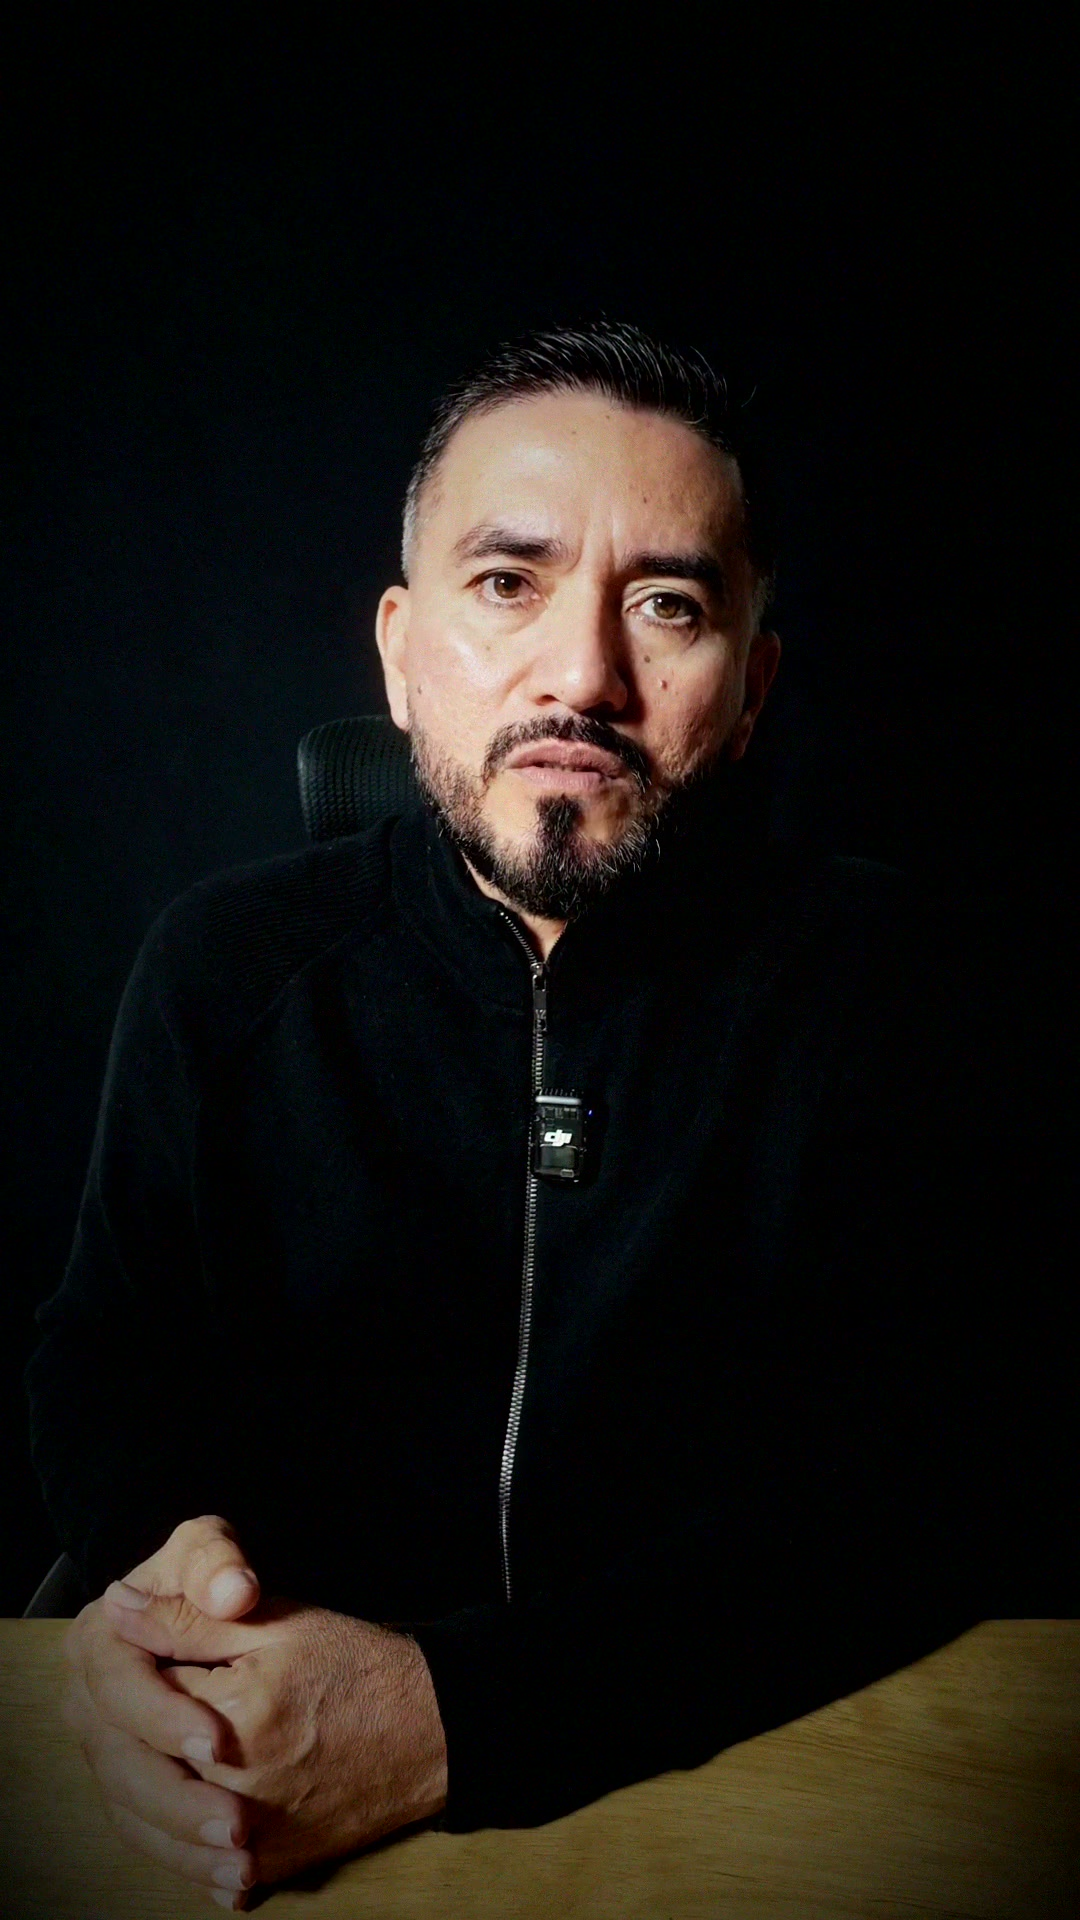
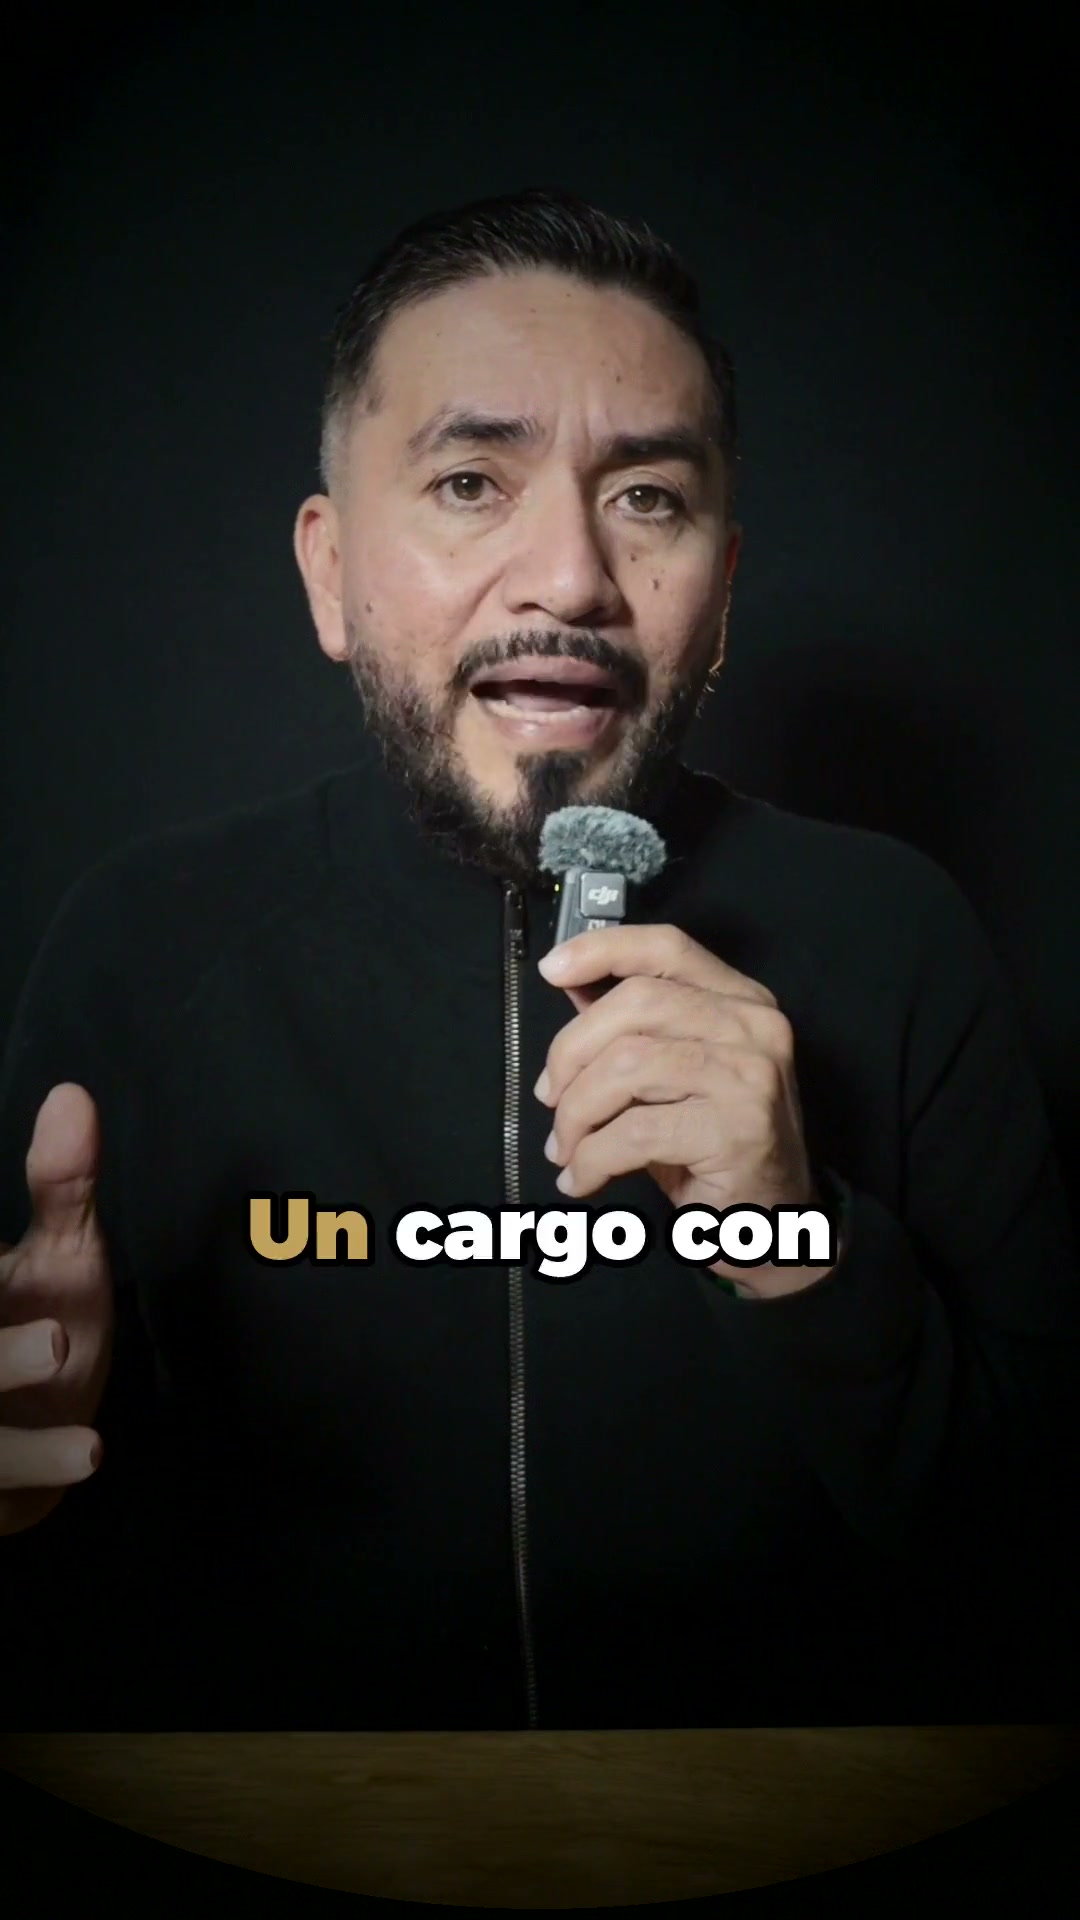
content(reels): empleados v3 producido y desplegado — 100% biblioteca Home
8 inserts por payoff (bucle/"repetir", el-peso recortado/"el carro que debe",
tambaleo, puente+contador 44p/s/"automática", multiplicación/"sin techo",
encendido/"la enciende") · −13.5 LUFS · outro. Blob verificado por bytes +
poster regenerado. Nota de producción en el doc de nichos.

diff --git a/public/contexto/produccion/guiones/reels/REELS_NICHOS_DOCUMENTACION.md b/public/contexto/produccion/guiones/reels/REELS_NICHOS_DOCUMENTACION.md
@@ -99,6 +99,8 @@ Esto no sucede por falta de esfuerzo de su parte. Es la consecuencia matemática
 
 → Continúa con el **Bloque Compartido** (Solución + CTA).
 
+*Producción (7 jul 2026 — guión v3 + biblioteca Home, 100% reuso, cero clips nuevos): base talking-head 140.3s con música propia de CapCut → pipeline `scripts/dankoe-video` · subtítulos forced-alignment (413 tokens, display-map 24/7) · **8 inserts** por payoff: `bucle` (el ciclo→"repetir" 22.1s — debut del villano B1 en nichos) · `el-peso` **recortado antes del reveal de la manija** (pila casa/birrete/carro→"el carro que todavía debe" 30.3s — la metáfora de la manija es corporativa; la pila de deudas es universal) · `empresa-de-siempre` desde t=1.5 (vibración→"tambalear" 38.1s) · `el-puente-v2` + **contador de billetes 44 pulsos/s** (59.3–62.1s → "de forma automática" 61.9s) · `sonrisaslindas` (76.8s) · `multiplicacion-glint` (→"sin techo" 110.4s) · `cierre-encendido` (→"la enciende" 120.1s) · `queswa-final` (CTA 126.1s) · audios de clips bajo la voz · atmósfera + loudnorm −13.5 LUFS + outro. Master: `masters/empleados-v3.mp4` (143.4s); web: `~/Downloads/reels/empleados/empleados-final.mp4` → **desplegado a Blob `reels/empleados.mp4`** (verificado por bytes) + poster regenerado.*
+
 ---
 
 ## Reel C · `empresarios` — El Diagnóstico de la Prisión Operativa (✅ empresa digital)